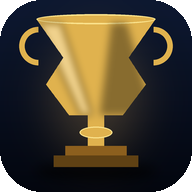
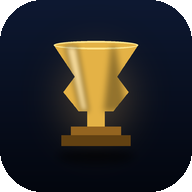
v1.2.3: trofeo más chico y centrado en el ícono
- Trofeo ocupa ~55% del canvas (antes 75%), centrado con aire alrededor.
  A 72-128 px del launcher Android la silueta se reconoce mucho mejor.
- Forma simplificada: sin asas (se confundían con el bowl a tamaño chico),
  bowl con rim + cintura + panza definida, stem corto, base compacta.
- Highlight izquierdo más sutil, sombra derecha leve para dar volumen.
- Cache busting bumpeado a v=1.2.3 en HTML, manifest y SW.
- CACHE_VERSION = 'album-2026-v1.2.3' → al refrescar la PWA aparece el
  banner "Hay una versión nueva" y al aplicar limpia los íconos viejos.

Changed region(s): [[0.0938, 0.0625, 0.9062, 0.875]]

diff --git a/index.html b/index.html
@@ -12,10 +12,10 @@
 <meta name="format-detection" content="telephone=no">
 <meta name="referrer" content="no-referrer">
 <meta name="description" content="Llevá el control de tu álbum del Mundial 2026: marcá las que tenés, anotá las repetidas y coordiná intercambios con tu familia y tus amigos por WhatsApp. Todo se guarda en tu dispositivo, sin registro y sin servidor.">
-<link rel="icon" type="image/png" sizes="100x100" href="./icons/icon-100.png?v=1.2.2">
-<link rel="icon" type="image/png" sizes="192x192" href="./icons/icon-192.png?v=1.2.2">
-<link rel="apple-touch-icon" sizes="180x180" href="./icons/icon-180.png?v=1.2.2">
-<link rel="manifest" href="./manifest.webmanifest?v=1.2.2">
+<link rel="icon" type="image/png" sizes="100x100" href="./icons/icon-100.png?v=1.2.3">
+<link rel="icon" type="image/png" sizes="192x192" href="./icons/icon-192.png?v=1.2.3">
+<link rel="apple-touch-icon" sizes="180x180" href="./icons/icon-180.png?v=1.2.3">
+<link rel="manifest" href="./manifest.webmanifest?v=1.2.3">
 <title>Mi Álbum Mundial 2026</title>
 <style>
 *,:after,:before{--tw-border-spacing-x:0;--tw-border-spacing-y:0;--tw-translate-x:0;--tw-translate-y:0;--tw-rotate:0;--tw-skew-x:0;--tw-skew-y:0;--tw-scale-x:1;--tw-scale-y:1;--tw-pan-x: ;--tw-pan-y: ;--tw-pinch-zoom: ;--tw-scroll-snap-strictness:proximity;--tw-gradient-from-position: ;--tw-gradient-via-position: ;--tw-gradient-to-position: ;--tw-ordinal: ;--tw-slashed-zero: ;--tw-numeric-figure: ;--tw-numeric-spacing: ;--tw-numeric-fraction: ;--tw-ring-inset: ;--tw-ring-offset-width:0px;--tw-ring-offset-color:#fff;--tw-ring-color:rgba(59,130,246,.5);--tw-ring-offset-shadow:0 0 #0000;--tw-ring-shadow:0 0 #0000;--tw-shadow:0 0 #0000;--tw-shadow-colored:0 0 #0000;--tw-blur: ;--tw-brightness: ;--tw-contrast: ;--tw-grayscale: ;--tw-hue-rotate: ;--tw-invert: ;--tw-saturate: ;--tw-sepia: ;--tw-drop-shadow: ;--tw-backdrop-blur: ;--tw-backdrop-brightness: ;--tw-backdrop-contrast: ;--tw-backdrop-grayscale: ;--tw-backdrop-hue-rotate: ;--tw-backdrop-invert: ;--tw-backdrop-opacity: ;--tw-backdrop-saturate: ;--tw-backdrop-sepia: ;--tw-contain-size: ;--tw-contain-layout: ;--tw-contain-paint: ;--tw-contain-style: }::backdrop{--tw-border-spacing-x:0;--tw-border-spacing-y:0;--tw-translate-x:0;--tw-translate-y:0;--tw-rotate:0;--tw-skew-x:0;--tw-skew-y:0;--tw-scale-x:1;--tw-scale-y:1;--tw-pan-x: ;--tw-pan-y: ;--tw-pinch-zoom: ;--tw-scroll-snap-strictness:proximity;--tw-gradient-from-position: ;--tw-gradient-via-position: ;--tw-gradient-to-position: ;--tw-ordinal: ;--tw-slashed-zero: ;--tw-numeric-figure: ;--tw-numeric-spacing: ;--tw-numeric-fraction: ;--tw-ring-inset: ;--tw-ring-offset-width:0px;--tw-ring-offset-color:#fff;--tw-ring-color:rgba(59,130,246,.5);--tw-ring-offset-shadow:0 0 #0000;--tw-ring-shadow:0 0 #0000;--tw-shadow:0 0 #0000;--tw-shadow-colored:0 0 #0000;--tw-blur: ;--tw-brightness: ;--tw-contrast: ;--tw-grayscale: ;--tw-hue-rotate: ;--tw-invert: ;--tw-saturate: ;--tw-sepia: ;--tw-drop-shadow: ;--tw-backdrop-blur: ;--tw-backdrop-brightness: ;--tw-backdrop-contrast: ;--tw-backdrop-grayscale: ;--tw-backdrop-hue-rotate: ;--tw-backdrop-invert: ;--tw-backdrop-opacity: ;--tw-backdrop-saturate: ;--tw-backdrop-sepia: ;--tw-contain-size: ;--tw-contain-layout: ;--tw-contain-paint: ;--tw-contain-style: }/*! tailwindcss v3.4.16 | MIT License | https://tailwindcss.com*/*,:after,:before{box-sizing:border-box;border:0 solid #e5e7eb}:after,:before{--tw-content:""}:host,html{line-height:1.5;-webkit-text-size-adjust:100%;-moz-tab-size:4;-o-tab-size:4;tab-size:4;font-family:ui-sans-serif,system-ui,sans-serif,Apple Color Emoji,Segoe UI Emoji,Segoe UI Symbol,Noto Color Emoji;font-feature-settings:normal;font-variation-settings:normal;-webkit-tap-highlight-color:transparent}body{margin:0;line-height:inherit}hr{height:0;color:inherit;border-top-width:1px}abbr:where([title]){-webkit-text-decoration:underline dotted;text-decoration:underline dotted}h1,h2,h3,h4,h5,h6{font-size:inherit;font-weight:inherit}a{color:inherit;text-decoration:inherit}b,strong{font-weight:bolder}code,kbd,pre,samp{font-family:ui-monospace,SFMono-Regular,Menlo,Monaco,Consolas,Liberation Mono,Courier New,monospace;font-feature-settings:normal;font-variation-settings:normal;font-size:1em}small{font-size:80%}sub,sup{font-size:75%;line-height:0;position:relative;vertical-align:baseline}sub{bottom:-.25em}sup{top:-.5em}table{text-indent:0;border-color:inherit;border-collapse:collapse}button,input,optgroup,select,textarea{font-family:inherit;font-feature-settings:inherit;font-variation-settings:inherit;font-size:100%;font-weight:inherit;line-height:inherit;letter-spacing:inherit;color:inherit;margin:0;padding:0}button,select{text-transform:none}button,input:where([type=button]),input:where([type=reset]),input:where([type=submit]){-webkit-appearance:button;background-color:transparent;background-image:none}:-moz-focusring{outline:auto}:-moz-ui-invalid{box-shadow:none}progress{vertical-align:baseline}::-webkit-inner-spin-button,::-webkit-outer-spin-button{height:auto}[type=search]{-webkit-appearance:textfield;outline-offset:-2px}::-webkit-search-decoration{-webkit-appearance:none}::-webkit-file-upload-button{-webkit-appearance:button;font:inherit}summary{display:list-item}blockquote,dd,dl,figure,h1,h2,h3,h4,h5,h6,hr,p,pre{margin:0}fieldset{margin:0}fieldset,legend{padding:0}menu,ol,ul{list-style:none;margin:0;padding:0}dialog{padding:0}textarea{resize:vertical}input::-moz-placeholder,textarea::-moz-placeholder{opacity:1;color:#9ca3af}input::placeholder,textarea::placeholder{opacity:1;color:#9ca3af}[role=button],button{cursor:pointer}:disabled{cursor:default}audio,canvas,embed,iframe,img,object,svg,video{display:block;vertical-align:middle}img,video{max-width:100%;height:auto}[hidden]:where(:not([hidden=until-found])){display:none}.visible{visibility:visible}.fixed{position:fixed}.absolute{position:absolute}.relative{position:relative}.sticky{position:sticky}.inset-x-0{left:0;right:0}.-bottom-1{bottom:-.25rem}.top-0{top:0}.z-20{z-index:20}.-mx-1{margin-left:-.25rem;margin-right:-.25rem}.mx-auto{margin-left:auto;margin-right:auto}.mb-1{margin-bottom:.25rem}.mb-2{margin-bottom:.5rem}.mb-3{margin-bottom:.75rem}.mb-4{margin-bottom:1rem}.mb-5{margin-bottom:1.25rem}.mb-6{margin-bottom:1.5rem}.mb-8{margin-bottom:2rem}.ml-1{margin-left:.25rem}.mr-2{margin-right:.5rem}.mt-0{margin-top:0}.mt-0\.5{margin-top:.125rem}.mt-1{margin-top:.25rem}.mt-1\.5{margin-top:.375rem}.mt-10{margin-top:2.5rem}.mt-12{margin-top:3rem}.mt-2{margin-top:.5rem}.mt-3{margin-top:.75rem}.mt-4{margin-top:1rem}.block{display:block}.inline-block{display:inline-block}.flex{display:flex}.table{display:table}.grid{display:grid}.hidden{display:none}.aspect-square{aspect-ratio:1/1}.h-1{height:.25rem}.h-1\.5{height:.375rem}.h-2{height:.5rem}.h-4{height:1rem}.h-5{height:1.25rem}.h-7{height:1.75rem}.h-9{height:2.25rem}.h-full{height:100%}.max-h-20{max-height:5rem}.max-h-48{max-height:12rem}.w-2{width:.5rem}.w-28{width:7rem}.w-4{width:1rem}.w-5{width:1.25rem}.w-7{width:1.75rem}.w-9{width:2.25rem}.w-full{width:100%}.min-w-0{min-width:0}.max-w-3xl{max-width:48rem}.flex-1{flex:1 1 0%}.shrink-0{flex-shrink:0}.transform{transform:translate(var(--tw-translate-x),var(--tw-translate-y)) rotate(var(--tw-rotate)) skewX(var(--tw-skew-x)) skewY(var(--tw-skew-y)) scaleX(var(--tw-scale-x)) scaleY(var(--tw-scale-y))}.cursor-pointer{cursor:pointer}.resize-none{resize:none}.resize{resize:both}.grid-cols-1{grid-template-columns:repeat(1,minmax(0,1fr))}.grid-cols-2{grid-template-columns:repeat(2,minmax(0,1fr))}.grid-cols-4{grid-template-columns:repeat(4,minmax(0,1fr))}.grid-cols-5{grid-template-columns:repeat(5,minmax(0,1fr))}.flex-col{flex-direction:column}.items-start{align-items:flex-start}.items-center{align-items:center}.items-baseline{align-items:baseline}.justify-center{justify-content:center}.justify-between{justify-content:space-between}.gap-1{gap:.25rem}.gap-1\.5{gap:.375rem}.gap-2{gap:.5rem}.gap-3{gap:.75rem}.gap-x-1{-moz-column-gap:.25rem;column-gap:.25rem}.gap-x-1\.5{-moz-column-gap:.375rem;column-gap:.375rem}.gap-y-3{row-gap:.75rem}.space-y-1>:not([hidden])~:not([hidden]){--tw-space-y-reverse:0;margin-top:calc(.25rem*(1 - var(--tw-space-y-reverse)));margin-bottom:calc(.25rem*var(--tw-space-y-reverse))}.space-y-1\.5>:not([hidden])~:not([hidden]){--tw-space-y-reverse:0;margin-top:calc(.375rem*(1 - var(--tw-space-y-reverse)));margin-bottom:calc(.375rem*var(--tw-space-y-reverse))}.space-y-2>:not([hidden])~:not([hidden]){--tw-space-y-reverse:0;margin-top:calc(.5rem*(1 - var(--tw-space-y-reverse)));margin-bottom:calc(.5rem*var(--tw-space-y-reverse))}.space-y-3>:not([hidden])~:not([hidden]){--tw-space-y-reverse:0;margin-top:calc(.75rem*(1 - var(--tw-space-y-reverse)));margin-bottom:calc(.75rem*var(--tw-space-y-reverse))}.divide-x>:not([hidden])~:not([hidden]){--tw-divide-x-reverse:0;border-right-width:calc(1px*var(--tw-divide-x-reverse));border-left-width:calc(1px*(1 - var(--tw-divide-x-reverse)))}.divide-gray-100>:not([hidden])~:not([hidden]){--tw-divide-opacity:1;border-color:rgb(243 244 246/var(--tw-divide-opacity,1))}.overflow-hidden{overflow:hidden}.overflow-y-auto{overflow-y:auto}.truncate{overflow:hidden;text-overflow:ellipsis;white-space:nowrap}.break-all{word-break:break-all}.rounded-2xl{border-radius:1rem}.rounded-full{border-radius:9999px}.rounded-lg{border-radius:.5rem}.rounded-md{border-radius:.375rem}.rounded-xl{border-radius:.75rem}.border{border-width:1px}.border-2{border-width:2px}.border-b{border-bottom-width:1px}.border-b-2{border-bottom-width:2px}.border-t{border-top-width:1px}.border-amber-200{--tw-border-opacity:1;border-color:rgb(253 230 138/var(--tw-border-opacity,1))}.border-amber-300{--tw-border-opacity:1;border-color:rgb(252 211 77/var(--tw-border-opacity,1))}.border-amber-400{--tw-border-opacity:1;border-color:rgb(251 191 36/var(--tw-border-opacity,1))}.border-blue-200{--tw-border-opacity:1;border-color:rgb(191 219 254/var(--tw-border-opacity,1))}.border-blue-300{--tw-border-opacity:1;border-color:rgb(147 197 253/var(--tw-border-opacity,1))}.border-emerald-200{--tw-border-opacity:1;border-color:rgb(167 243 208/var(--tw-border-opacity,1))}.border-emerald-300{--tw-border-opacity:1;border-color:rgb(110 231 183/var(--tw-border-opacity,1))}.border-gray-100{--tw-border-opacity:1;border-color:rgb(243 244 246/var(--tw-border-opacity,1))}.border-gray-200{--tw-border-opacity:1;border-color:rgb(229 231 235/var(--tw-border-opacity,1))}.border-gray-300{--tw-border-opacity:1;border-color:rgb(209 213 219/var(--tw-border-opacity,1))}.border-indigo-200{--tw-border-opacity:1;border-color:rgb(199 210 254/var(--tw-border-opacity,1))}.border-pink-200{--tw-border-opacity:1;border-color:rgb(251 207 232/var(--tw-border-opacity,1))}.border-pink-300{--tw-border-opacity:1;border-color:rgb(249 168 212/var(--tw-border-opacity,1))}.border-purple-300{--tw-border-opacity:1;border-color:rgb(216 180 254/var(--tw-border-opacity,1))}.border-red-400{--tw-border-opacity:1;border-color:rgb(248 113 113/var(--tw-border-opacity,1))}.bg-amber-100{--tw-bg-opacity:1;background-color:rgb(254 243 199/var(--tw-bg-opacity,1))}.bg-amber-50{--tw-bg-opacity:1;background-color:rgb(255 251 235/var(--tw-bg-opacity,1))}.bg-amber-500{--tw-bg-opacity:1;background-color:rgb(245 158 11/var(--tw-bg-opacity,1))}.bg-amber-600{--tw-bg-opacity:1;background-color:rgb(217 119 6/var(--tw-bg-opacity,1))}.bg-blue-50{--tw-bg-opacity:1;background-color:rgb(239 246 255/var(--tw-bg-opacity,1))}.bg-blue-500{--tw-bg-opacity:1;background-color:rgb(59 130 246/var(--tw-bg-opacity,1))}.bg-blue-600{--tw-bg-opacity:1;background-color:rgb(37 99 235/var(--tw-bg-opacity,1))}.bg-emerald-100{--tw-bg-opacity:1;background-color:rgb(209 250 229/var(--tw-bg-opacity,1))}.bg-emerald-50{--tw-bg-opacity:1;background-color:rgb(236 253 245/var(--tw-bg-opacity,1))}.bg-emerald-600{--tw-bg-opacity:1;background-color:rgb(5 150 105/var(--tw-bg-opacity,1))}.bg-gray-100{--tw-bg-opacity:1;background-color:rgb(243 244 246/var(--tw-bg-opacity,1))}.bg-gray-50{--tw-bg-opacity:1;background-color:rgb(249 250 251/var(--tw-bg-opacity,1))}.bg-gray-900{--tw-bg-opacity:1;background-color:rgb(17 24 39/var(--tw-bg-opacity,1))}.bg-green-600{--tw-bg-opacity:1;background-color:rgb(22 163 74/var(--tw-bg-opacity,1))}.bg-indigo-50{--tw-bg-opacity:1;background-color:rgb(238 242 255/var(--tw-bg-opacity,1))}.bg-indigo-600{--tw-bg-opacity:1;background-color:rgb(79 70 229/var(--tw-bg-opacity,1))}.bg-pink-500{--tw-bg-opacity:1;background-color:rgb(236 72 153/var(--tw-bg-opacity,1))}.bg-purple-50{--tw-bg-opacity:1;background-color:rgb(250 245 255/var(--tw-bg-opacity,1))}.bg-purple-600{--tw-bg-opacity:1;background-color:rgb(147 51 234/var(--tw-bg-opacity,1))}.bg-red-100{--tw-bg-opacity:1;background-color:rgb(254 226 226/var(--tw-bg-opacity,1))}.bg-red-50{--tw-bg-opacity:1;background-color:rgb(254 242 242/var(--tw-bg-opacity,1))}.bg-red-600{--tw-bg-opacity:1;background-color:rgb(220 38 38/var(--tw-bg-opacity,1))}.bg-transparent{background-color:transparent}.bg-white{--tw-bg-opacity:1;background-color:rgb(255 255 255/var(--tw-bg-opacity,1))}.bg-white\/95{background-color:hsla(0,0%,100%,.95)}.bg-gradient-to-br{background-image:linear-gradient(to bottom right,var(--tw-gradient-stops))}.from-pink-50{--tw-gradient-from:#fdf2f8 var(--tw-gradient-from-position);--tw-gradient-to:rgba(253,242,248,0) var(--tw-gradient-to-position);--tw-gradient-stops:var(--tw-gradient-from),var(--tw-gradient-to)}.to-rose-50{--tw-gradient-to:#fff1f2 var(--tw-gradient-to-position)}.p-1{padding:.25rem}.p-3{padding:.75rem}.p-4{padding:1rem}.p-5{padding:1.25rem}.p-6{padding:1.5rem}.px-1{padding-left:.25rem;padding-right:.25rem}.px-2{padding-left:.5rem;padding-right:.5rem}.px-2\.5{padding-left:.625rem;padding-right:.625rem}.px-3{padding-left:.75rem;padding-right:.75rem}.px-4{padding-left:1rem;padding-right:1rem}.py-1{padding-top:.25rem;padding-bottom:.25rem}.py-1\.5{padding-top:.375rem;padding-bottom:.375rem}.py-2{padding-top:.5rem;padding-bottom:.5rem}.py-2\.5{padding-top:.625rem;padding-bottom:.625rem}.py-3{padding-top:.75rem;padding-bottom:.75rem}.py-4{padding-top:1rem;padding-bottom:1rem}.py-6{padding-top:1.5rem;padding-bottom:1.5rem}.pb-12{padding-bottom:3rem}.pb-2{padding-bottom:.5rem}.pb-3{padding-bottom:.75rem}.pb-32{padding-bottom:8rem}.pb-5{padding-bottom:1.25rem}.pb-6{padding-bottom:1.5rem}.pb-8{padding-bottom:2rem}.pt-3{padding-top:.75rem}.pt-4{padding-top:1rem}.text-center{text-align:center}.text-right{text-align:right}.align-text-bottom{vertical-align:text-bottom}.font-mono{font-family:ui-monospace,SFMono-Regular,Menlo,Monaco,Consolas,Liberation Mono,Courier New,monospace}.text-2xl{font-size:1.5rem;line-height:2rem}.text-3xl{font-size:1.875rem;line-height:2.25rem}.text-\[10px\]{font-size:10px}.text-\[11px\]{font-size:11px}.text-\[8px\]{font-size:8px}.text-\[9px\]{font-size:9px}.text-base{font-size:1rem;line-height:1.5rem}.text-lg{font-size:1.125rem;line-height:1.75rem}.text-sm{font-size:.875rem;line-height:1.25rem}.text-xl{font-size:1.25rem;line-height:1.75rem}.text-xs{font-size:.75rem;line-height:1rem}.font-bold{font-weight:700}.font-medium{font-weight:500}.font-semibold{font-weight:600}.uppercase{text-transform:uppercase}.italic{font-style:italic}.tabular-nums{--tw-numeric-spacing:tabular-nums;font-variant-numeric:var(--tw-ordinal) var(--tw-slashed-zero) var(--tw-numeric-figure) var(--tw-numeric-spacing) var(--tw-numeric-fraction)}.leading-none{line-height:1}.leading-relaxed{line-height:1.625}.leading-snug{line-height:1.375}.leading-tight{line-height:1.25}.tracking-\[0\.15em\]{letter-spacing:.15em}.tracking-\[0\.1em\]{letter-spacing:.1em}.tracking-tight{letter-spacing:-.025em}.tracking-wider{letter-spacing:.05em}.text-amber-600{--tw-text-opacity:1;color:rgb(217 119 6/var(--tw-text-opacity,1))}.text-amber-700{--tw-text-opacity:1;color:rgb(180 83 9/var(--tw-text-opacity,1))}.text-amber-900{--tw-text-opacity:1;color:rgb(120 53 15/var(--tw-text-opacity,1))}.text-blue-600{--tw-text-opacity:1;color:rgb(37 99 235/var(--tw-text-opacity,1))}.text-blue-700{--tw-text-opacity:1;color:rgb(29 78 216/var(--tw-text-opacity,1))}.text-emerald-600{--tw-text-opacity:1;color:rgb(5 150 105/var(--tw-text-opacity,1))}.text-emerald-700{--tw-text-opacity:1;color:rgb(4 120 87/var(--tw-text-opacity,1))}.text-emerald-800{--tw-text-opacity:1;color:rgb(6 95 70/var(--tw-text-opacity,1))}.text-emerald-900{--tw-text-opacity:1;color:rgb(6 78 59/var(--tw-text-opacity,1))}.text-gray-300{--tw-text-opacity:1;color:rgb(209 213 219/var(--tw-text-opacity,1))}.text-gray-400{--tw-text-opacity:1;color:rgb(156 163 175/var(--tw-text-opacity,1))}.text-gray-500{--tw-text-opacity:1;color:rgb(107 114 128/var(--tw-text-opacity,1))}.text-gray-600{--tw-text-opacity:1;color:rgb(75 85 99/var(--tw-text-opacity,1))}.text-gray-700{--tw-text-opacity:1;color:rgb(55 65 81/var(--tw-text-opacity,1))}.text-gray-900{--tw-text-opacity:1;color:rgb(17 24 39/var(--tw-text-opacity,1))}.text-green-600{--tw-text-opacity:1;color:rgb(22 163 74/var(--tw-text-opacity,1))}.text-green-700{--tw-text-opacity:1;color:rgb(21 128 61/var(--tw-text-opacity,1))}.text-indigo-600{--tw-text-opacity:1;color:rgb(79 70 229/var(--tw-text-opacity,1))}.text-indigo-700{--tw-text-opacity:1;color:rgb(67 56 202/var(--tw-text-opacity,1))}.text-pink-700{--tw-text-opacity:1;color:rgb(190 24 93/var(--tw-text-opacity,1))}.text-purple-600{--tw-text-opacity:1;color:rgb(147 51 234/var(--tw-text-opacity,1))}.text-purple-700{--tw-text-opacity:1;color:rgb(126 34 206/var(--tw-text-opacity,1))}.text-red-500{--tw-text-opacity:1;color:rgb(239 68 68/var(--tw-text-opacity,1))}.text-red-600{--tw-text-opacity:1;color:rgb(220 38 38/var(--tw-text-opacity,1))}.text-red-900{--tw-text-opacity:1;color:rgb(127 29 29/var(--tw-text-opacity,1))}.text-white{--tw-text-opacity:1;color:rgb(255 255 255/var(--tw-text-opacity,1))}.text-white\/80{color:hsla(0,0%,100%,.8)}.text-white\/90{color:hsla(0,0%,100%,.9)}.underline{text-decoration-line:underline}.opacity-60{opacity:.6}.opacity-70{opacity:.7}.opacity-90{opacity:.9}.shadow-sm{--tw-shadow:0 1px 2px 0 rgba(0,0,0,.05);--tw-shadow-colored:0 1px 2px 0 var(--tw-shadow-color);box-shadow:var(--tw-ring-offset-shadow,0 0 #0000),var(--tw-ring-shadow,0 0 #0000),var(--tw-shadow)}.outline{outline-style:solid}.blur{--tw-blur:blur(8px)}.blur,.filter{filter:var(--tw-blur) var(--tw-brightness) var(--tw-contrast) var(--tw-grayscale) var(--tw-hue-rotate) var(--tw-invert) var(--tw-saturate) var(--tw-sepia) var(--tw-drop-shadow)}.backdrop-blur-md{--tw-backdrop-blur:blur(12px);-webkit-backdrop-filter:var(--tw-backdrop-blur) var(--tw-backdrop-brightness) var(--tw-backdrop-contrast) var(--tw-backdrop-grayscale) var(--tw-backdrop-hue-rotate) var(--tw-backdrop-invert) var(--tw-backdrop-opacity) var(--tw-backdrop-saturate) var(--tw-backdrop-sepia);backdrop-filter:var(--tw-backdrop-blur) var(--tw-backdrop-brightness) var(--tw-backdrop-contrast) var(--tw-backdrop-grayscale) var(--tw-backdrop-hue-rotate) var(--tw-backdrop-invert) var(--tw-backdrop-opacity) var(--tw-backdrop-saturate) var(--tw-backdrop-sepia)}.transition-all{transition-property:all;transition-timing-function:cubic-bezier(.4,0,.2,1);transition-duration:.15s}.transition-colors{transition-property:color,background-color,border-color,text-decoration-color,fill,stroke;transition-timing-function:cubic-bezier(.4,0,.2,1);transition-duration:.15s}.duration-300{transition-duration:.3s}.focus\:border-amber-500:focus{--tw-border-opacity:1;border-color:rgb(245 158 11/var(--tw-border-opacity,1))}.focus\:border-blue-500:focus{--tw-border-opacity:1;border-color:rgb(59 130 246/var(--tw-border-opacity,1))}.focus\:border-emerald-500:focus{--tw-border-opacity:1;border-color:rgb(16 185 129/var(--tw-border-opacity,1))}.focus\:outline-none:focus{outline:2px solid transparent;outline-offset:2px}.active\:bg-amber-600:active{--tw-bg-opacity:1;background-color:rgb(217 119 6/var(--tw-bg-opacity,1))}.active\:bg-amber-700:active{--tw-bg-opacity:1;background-color:rgb(180 83 9/var(--tw-bg-opacity,1))}.active\:bg-blue-50:active{--tw-bg-opacity:1;background-color:rgb(239 246 255/var(--tw-bg-opacity,1))}.active\:bg-blue-600:active{--tw-bg-opacity:1;background-color:rgb(37 99 235/var(--tw-bg-opacity,1))}.active\:bg-emerald-100:active{--tw-bg-opacity:1;background-color:rgb(209 250 229/var(--tw-bg-opacity,1))}.active\:bg-emerald-700:active{--tw-bg-opacity:1;background-color:rgb(4 120 87/var(--tw-bg-opacity,1))}.active\:bg-gray-100:active{--tw-bg-opacity:1;background-color:rgb(243 244 246/var(--tw-bg-opacity,1))}.active\:bg-gray-200:active{--tw-bg-opacity:1;background-color:rgb(229 231 235/var(--tw-bg-opacity,1))}.active\:bg-green-700:active{--tw-bg-opacity:1;background-color:rgb(21 128 61/var(--tw-bg-opacity,1))}.active\:bg-indigo-100:active{--tw-bg-opacity:1;background-color:rgb(224 231 255/var(--tw-bg-opacity,1))}.active\:bg-indigo-700:active{--tw-bg-opacity:1;background-color:rgb(67 56 202/var(--tw-bg-opacity,1))}.active\:bg-pink-50:active{--tw-bg-opacity:1;background-color:rgb(253 242 248/var(--tw-bg-opacity,1))}.active\:bg-pink-600:active{--tw-bg-opacity:1;background-color:rgb(219 39 119/var(--tw-bg-opacity,1))}.active\:bg-purple-100:active{--tw-bg-opacity:1;background-color:rgb(243 232 255/var(--tw-bg-opacity,1))}.active\:bg-purple-700:active{--tw-bg-opacity:1;background-color:rgb(126 34 206/var(--tw-bg-opacity,1))}.active\:text-blue-800:active{--tw-text-opacity:1;color:rgb(30 64 175/var(--tw-text-opacity,1))}.active\:text-emerald-900:active{--tw-text-opacity:1;color:rgb(6 78 59/var(--tw-text-opacity,1))}.active\:text-gray-600:active{--tw-text-opacity:1;color:rgb(75 85 99/var(--tw-text-opacity,1))}.active\:text-indigo-800:active{--tw-text-opacity:1;color:rgb(55 48 163/var(--tw-text-opacity,1))}.active\:text-red-500:active{--tw-text-opacity:1;color:rgb(239 68 68/var(--tw-text-opacity,1))}.active\:text-white:active{--tw-text-opacity:1;color:rgb(255 255 255/var(--tw-text-opacity,1))}@media (min-width:640px){.sm\:grid-cols-10{grid-template-columns:repeat(10,minmax(0,1fr))}.sm\:grid-cols-2{grid-template-columns:repeat(2,minmax(0,1fr))}.sm\:grid-cols-7{grid-template-columns:repeat(7,minmax(0,1fr))}.sm\:text-sm{font-size:.875rem;line-height:1.25rem}}
@@ -146,7 +146,7 @@ const ejecutarPromptInstalacion = async () => {
 // ====== CONTROL DE VERSIÓN Y ACTUALIZACIONES ======
 // La versión que se ve en el footer y se compara con la del SW para detectar
 // si hay una versión nueva descargada esperando aplicarse.
-const APP_VERSION = '1.2.2';
+const APP_VERSION = '1.2.3';
 const APP_BUILD = '2026-05-18';
 const STORAGE_KEY_UPDATE_DISMISS = 'album-mundial-2026-update-dismiss';
 
@@ -1988,7 +1988,7 @@ function render() {
     <footer class="max-w-3xl mx-auto px-4 pb-12 pt-4 border-t border-gray-100">
       <div class="flex items-center justify-between text-[11px] text-gray-400">
         <div class="flex items-center gap-2">
-          <img src="./icons/icon-100.png?v=1.2.2" alt="" width="20" height="20" class="rounded-md" onerror="this.style.display='none'">
+          <img src="./icons/icon-100.png?v=1.2.3" alt="" width="20" height="20" class="rounded-md" onerror="this.style.display='none'">
           <span class="font-semibold text-gray-500">Álbum Mundial 2026</span>
           <span class="tabular-nums">v${APP_VERSION}</span>
         </div>

diff --git a/sw.js b/sw.js
@@ -13,16 +13,16 @@
 // hacerlo nuestro listener 'updatefound' en el HTML va a disparar y mostrarle
 // al usuario el banner "Hay una versión nueva".
 
-const CACHE_VERSION = 'album-2026-v1.2.2';
+const CACHE_VERSION = 'album-2026-v1.2.3';
 const URLS_A_CACHEAR = [
   './',
   './index.html',
-  './manifest.webmanifest?v=1.2.2',
-  './icons/icon-100.png?v=1.2.2',
-  './icons/icon-180.png?v=1.2.2',
-  './icons/icon-192.png?v=1.2.2',
-  './icons/icon-512.png?v=1.2.2',
-  './icons/icon-512-maskable.png?v=1.2.2',
+  './manifest.webmanifest?v=1.2.3',
+  './icons/icon-100.png?v=1.2.3',
+  './icons/icon-180.png?v=1.2.3',
+  './icons/icon-192.png?v=1.2.3',
+  './icons/icon-512.png?v=1.2.3',
+  './icons/icon-512-maskable.png?v=1.2.3',
 ];
 
 self.addEventListener('install', (event) => {

diff --git a/CHANGELOG.md b/CHANGELOG.md
@@ -1,5 +1,17 @@
 # Changelog
 
+## v1.2.3 — 2026-05-18
+
+- Trofeo más chico y centrado en el ícono (ocupa ~55% del canvas en vez
+  del 75% anterior). Más aire alrededor → la silueta del objeto se lee
+  más clara a tamaños chicos (72-128 px del launcher Android).
+- Forma simplificada: sin asas (a tamaño chico se confundían con el
+  bowl), bowl más definido (rim ancho + cintura angosta + panza),
+  stem más corto y base de dos niveles compacta.
+- Highlight vertical más sutil + sombra del lado derecho para dar
+  volumen sin sobrecargar.
+- Cache busting `?v=1.2.3` y `CACHE_VERSION = album-2026-v1.2.3`.
+
 ## v1.2.2 — 2026-05-18
 
 - Trofeo más grande (ocupa ~75% del canvas), sin texto "2026" para que
